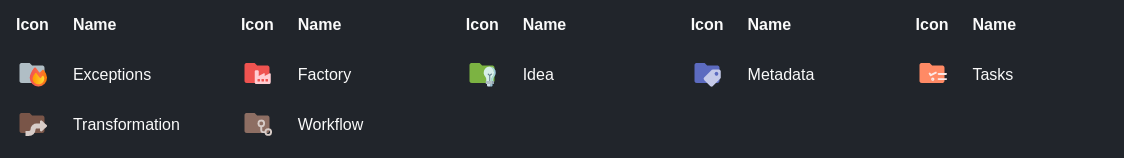
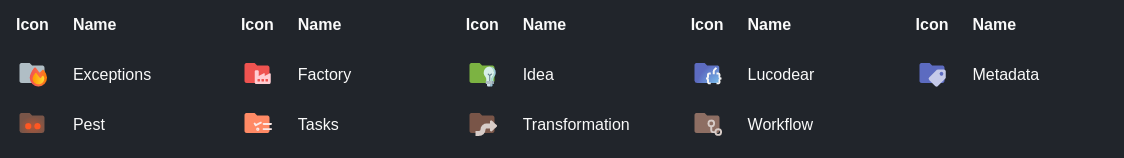
release: 🔖 v0.5.0

diff --git a/CHANGELOG.md b/CHANGELOG.md
@@ -3,10 +3,18 @@
  All notable changes to this project will be documented in this file. Dates are displayed in UTC.
 
  
+#### [v0.5.0](https://github.com/PKief/vscode-material-icon-theme/compare/v0.4.1...v0.5.0) 
+
+> February 7, 2024 
+
+- feat: ✨ lucodear icons + pureref, adobe light icons [`7489192b`](https://github.com/PKief/vscode-material-icon-theme/commit/7489192b)
+- chore: 🧹 add lucodear light icon checks to usage check [`995f6001`](https://github.com/PKief/vscode-material-icon-theme/commit/995f6001)
+ 
 #### [v0.4.1](https://github.com/PKief/vscode-material-icon-theme/compare/v0.4.0...v0.4.1) 
 
 > February 6, 2024 
 
+- release: 🔖 v0.4.1 [`4cf6e34a`](https://github.com/PKief/vscode-material-icon-theme/commit/4cf6e34a)
 - feat: ✨ small tweaks to release.yml github action [`383bac03`](https://github.com/PKief/vscode-material-icon-theme/commit/383bac03)
 - ci: 🔄 small tweaks to release.yml github action [`196d3c6c`](https://github.com/PKief/vscode-material-icon-theme/commit/196d3c6c)
 - feat: ✨ extend ideas [`e0055b4d`](https://github.com/PKief/vscode-material-icon-theme/commit/e0055b4d)
